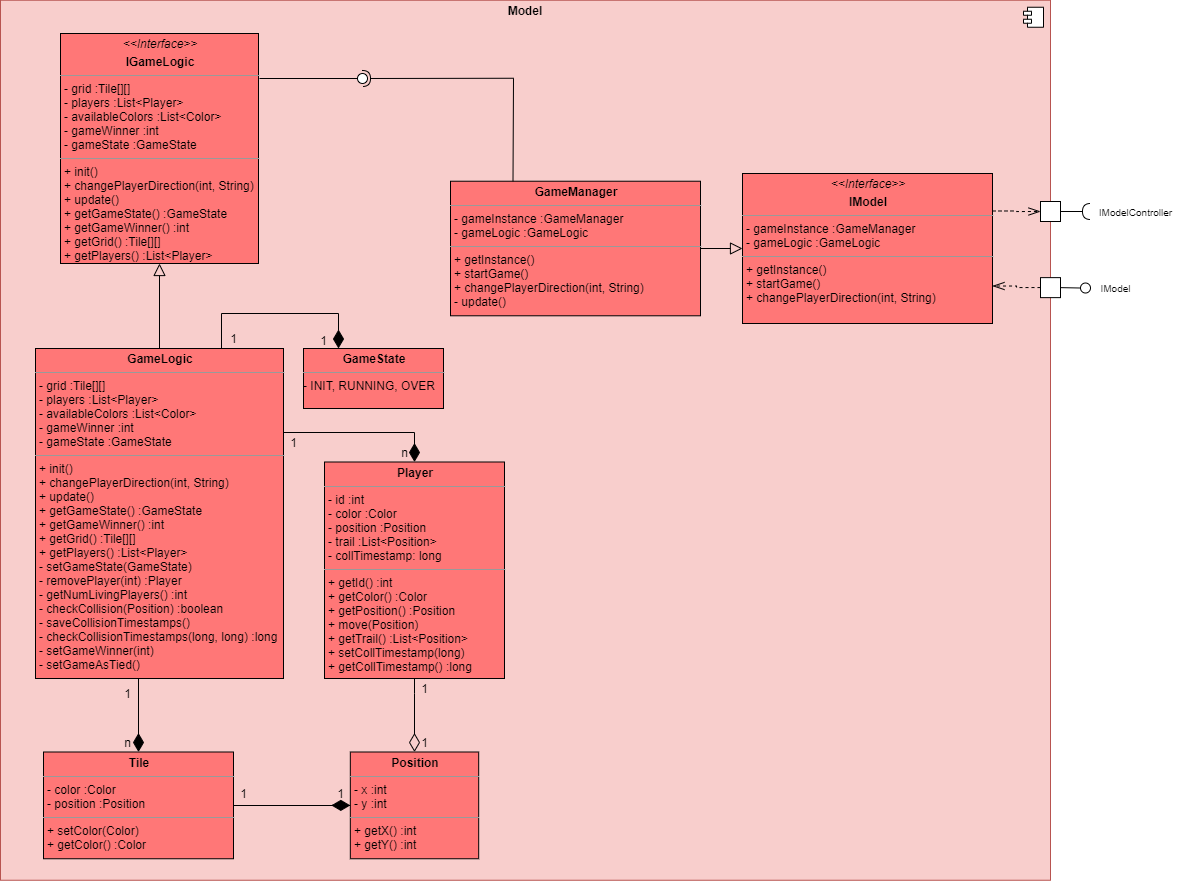
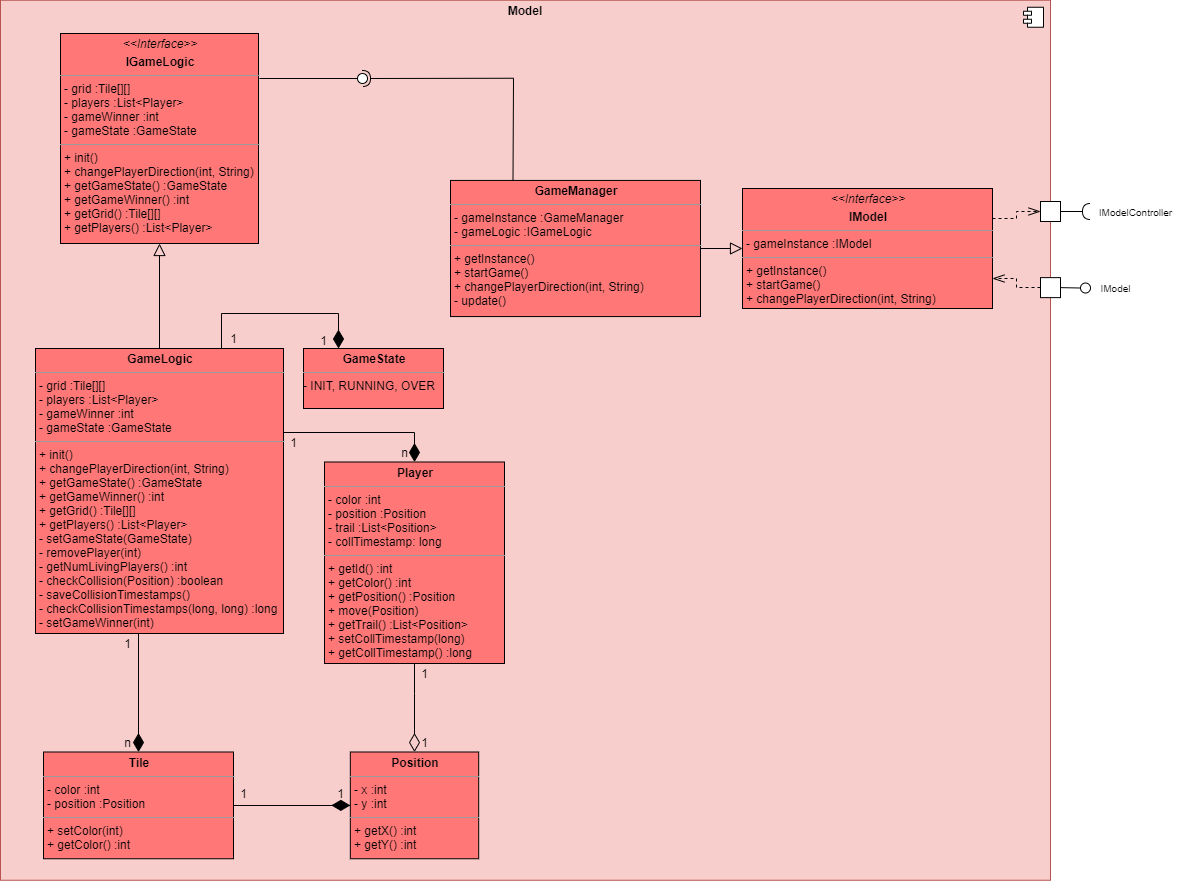
refactored model. deleted previous method list

diff --git a/Doku/Dokumentation_Tronspiel.md b/Doku/Dokumentation_Tronspiel.md
@@ -208,7 +208,7 @@ Die Komponentenaufteilung richtet sich nach dem eingesetzten MVC-Architekturmust
 
 **Zweck/ Verantwortung**
 
-Das Model ist in unserem Spiel sowohl für die Spielelogik, als auch die Lobbylogik zuständig. Es berechnet den aktuellen Spielstand anhand der Eingaben und gibt dies an die View weiter. Die Lobbylogik kümmert sich um das Erstellen und Starten von Spielen, also vom Start- über den Warte- zum Spielbildschirm.
+Das Model ist in unserem Spiel für die Spielelogik zuständig. Es berechnet den aktuellen Spielstand anhand der Eingaben und gibt die Informationen an die View weiter
 
 **Schnittstelle(n)**
 
@@ -287,16 +287,11 @@ Die View importiert Controller-Funktionalitäten über die Schnittstelle **IView
 
 ### Whitebox Model
 
-![Model_Ebene3](images/Model_Ebene3.png)
+![Model_Ebene3](images/Model_Ebene3_Refactor.png)
 
 |Methode    |Kurzbeschreibung|
-|-----------|----------------|
-|addPlayer()|Diese Methode kümmert sich um das Hinzufügen eines neuen Spielers zum Spiel. Dabei wird ein Player-Objekt initialisiert mit einer noch nicht vergebenen Farbe.|
-|cancelWait()|Diese Methode bricht die Spielesuche/ das Warten auf weitere Spieler ab|
-|startGame()|Diese Methode initialisiert und startet das eigentliche Spiel, sobald alle Spieler beigetreten sind.|
-|movePlayer()|Mit dieser Methode wird die Bewegung im Spiel modelliert. Tasteneingaben vom Spieler bestimmen seine Richtung. Hier wird außerdem mit internen Methoden weiter überprüft, ob es Kollisionen gab und demnach gehandelt.|
-|checkCollision()| Diese Methode überprüft, ob es eine Kollision zwischen einem Spieler und einem anderen Spieler, Spur oder Wand gegeben hat.|
-|clearPlayer()|Wenn ein Spieler kollidiert ist, soll er vom Spielfeld verschwinden.|
+|-|-|
+|||
 
 ### Whitebox View
 
@@ -351,9 +346,6 @@ Methodenliste
 
 ## Usecase 2 CancelWait
 ![UC2_CancelWait](images/UC2_CancelWait.png)
-
-## Usecase 3 Start
-![UC3_Start](images/UC3_Start.png)
 
 ## Usecase 3 Spielstart
 ![Sequenzdiagramm_Spielstart](images/SD_Spielstart.png)
